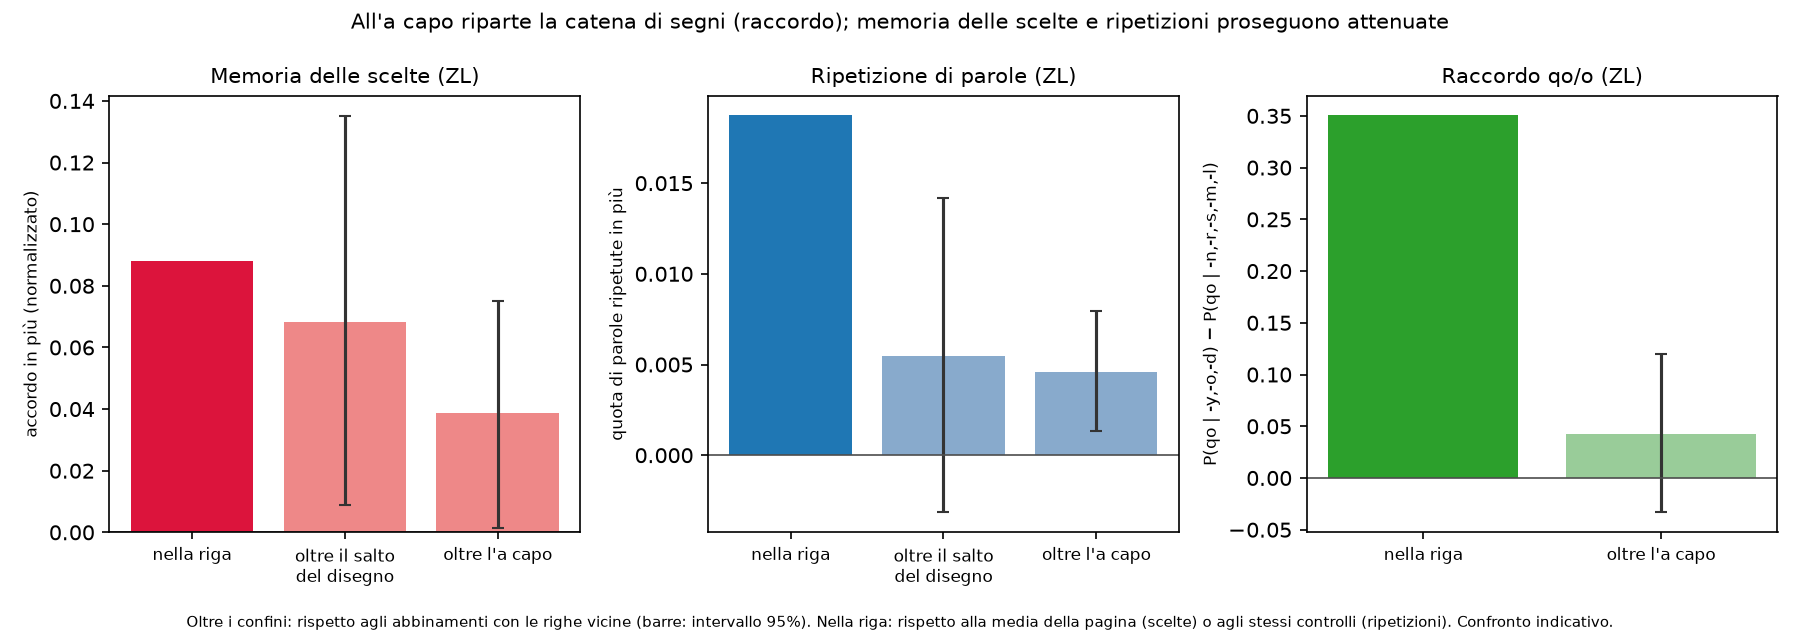
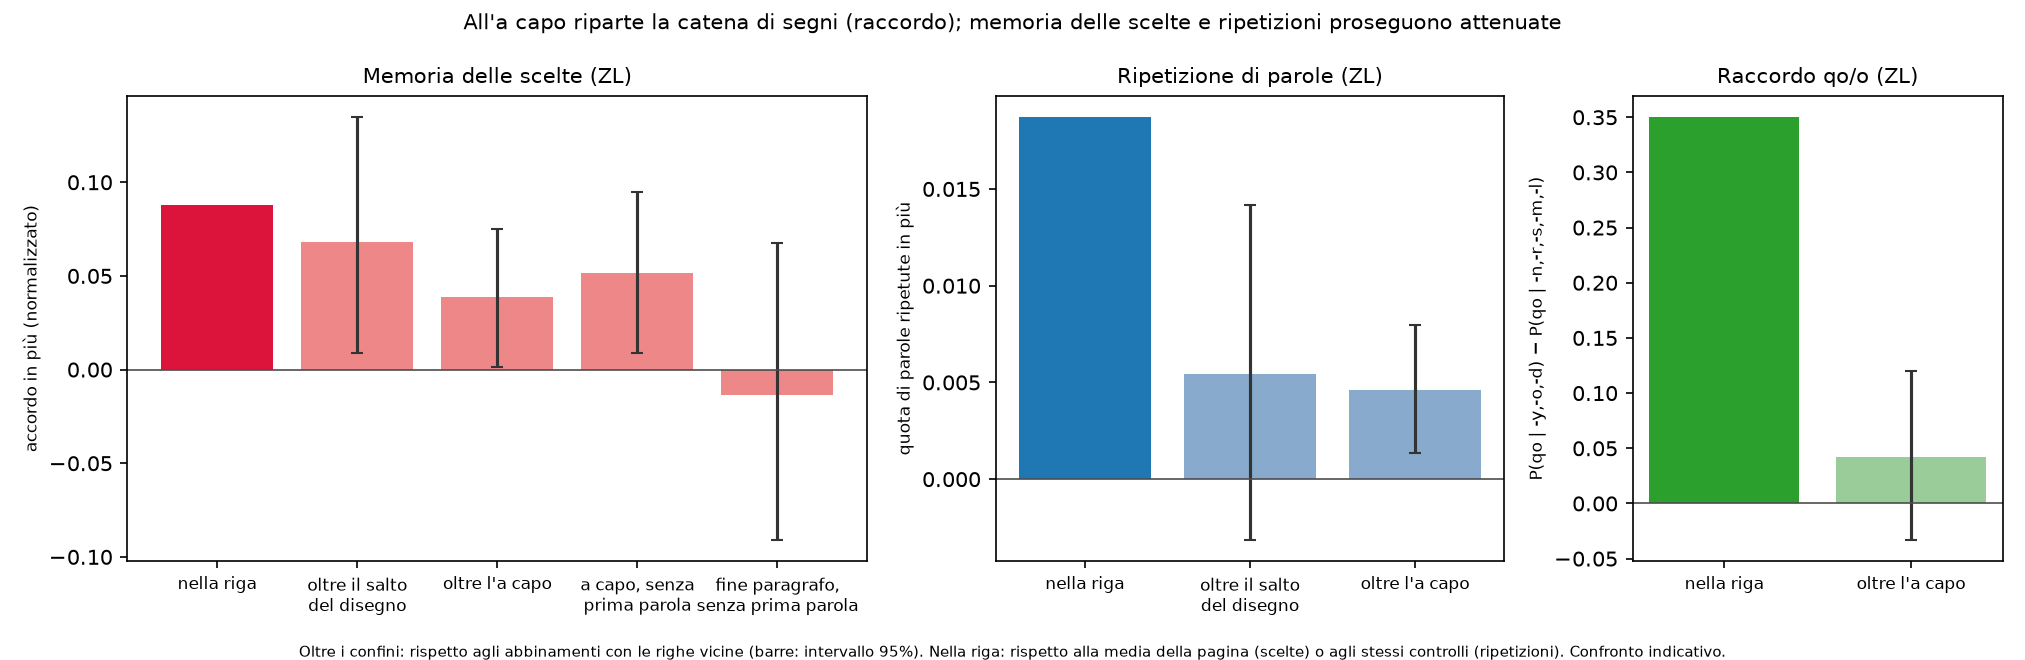
Figura confini.png con a capo senza prima parola e fine paragrafo (e3b89, e3b90)

diff --git a/strumenti/figura_confini.py b/strumenti/figura_confini.py
@@ -1,6 +1,6 @@
 # -*- coding: utf-8 -*-
 """Figura di sintesi (nessun dato nuovo): che cosa passa i confini della scrittura (salto del disegno, a capo).
-Memoria delle scelte (e3b66, e3b67), ripetizione di parole (e3b68), raccordo qo/o (e3b45). Scrive
+Memoria delle scelte (e3b66, e3b67, e3b89, e3b90), ripetizione di parole (e3b68), raccordo qo/o (e3b45). Scrive
 risultati/figure/confini.png.
 """
 import json, os
@@ -36,11 +36,15 @@ def main():
     s = carica('e3b67_salto_potenza.json')['trascrizioni']
     r = carica('e3b68_ripetizione_confini.json')['confini']
     q = carica('e3b45_raccordo_a_capo.json')['gruppi']
-    fig, axs = plt.subplots(1, 3, figsize=(12, 4.2))
+    pp = carica('e3b89_a_capo_prima_parola.json')['trascrizioni']['ZL']['senza la prima parola']
+    fp = carica('e3b90_paragrafo_prima_parola.json')['trascrizioni']['ZL']
+    fig, axs = plt.subplots(1, 3, figsize=(13.5, 4.4), gridspec_kw={'width_ratios': [1.6, 1.1, 0.8]})
     pannello(axs[0], 'Memoria delle scelte (ZL)', [
         ('nella riga', a['ZL']['K']['dentro']['K'], None, 'crimson'),
         ('oltre il salto\ndel disegno', s['ZL']['D'], s['ZL']['IC95'], '#e88'),
-        ("oltre l'a capo", a['ZL']['D'], a['ZL']['IC95'], '#e88')], 'accordo in più (normalizzato)')
+        ("oltre l'a capo", a['ZL']['D'], a['ZL']['IC95'], '#e88'),
+        ("a capo, senza\nprima parola", pp['D'], pp['IC95'], '#e88'),
+        ("fine paragrafo,\nsenza prima parola", fp['D'], fp['IC95'], '#e88')], 'accordo in più (normalizzato)')
     pannello(axs[1], 'Ripetizione di parole (ZL)', [
         ('nella riga', r["a capo, ZL"]['eccesso_dentro'], None, 'tab:blue'),
         ('oltre il salto\ndel disegno', r['salto, ZL']['D'], r['salto, ZL']['IC95'], '#8ac'),
